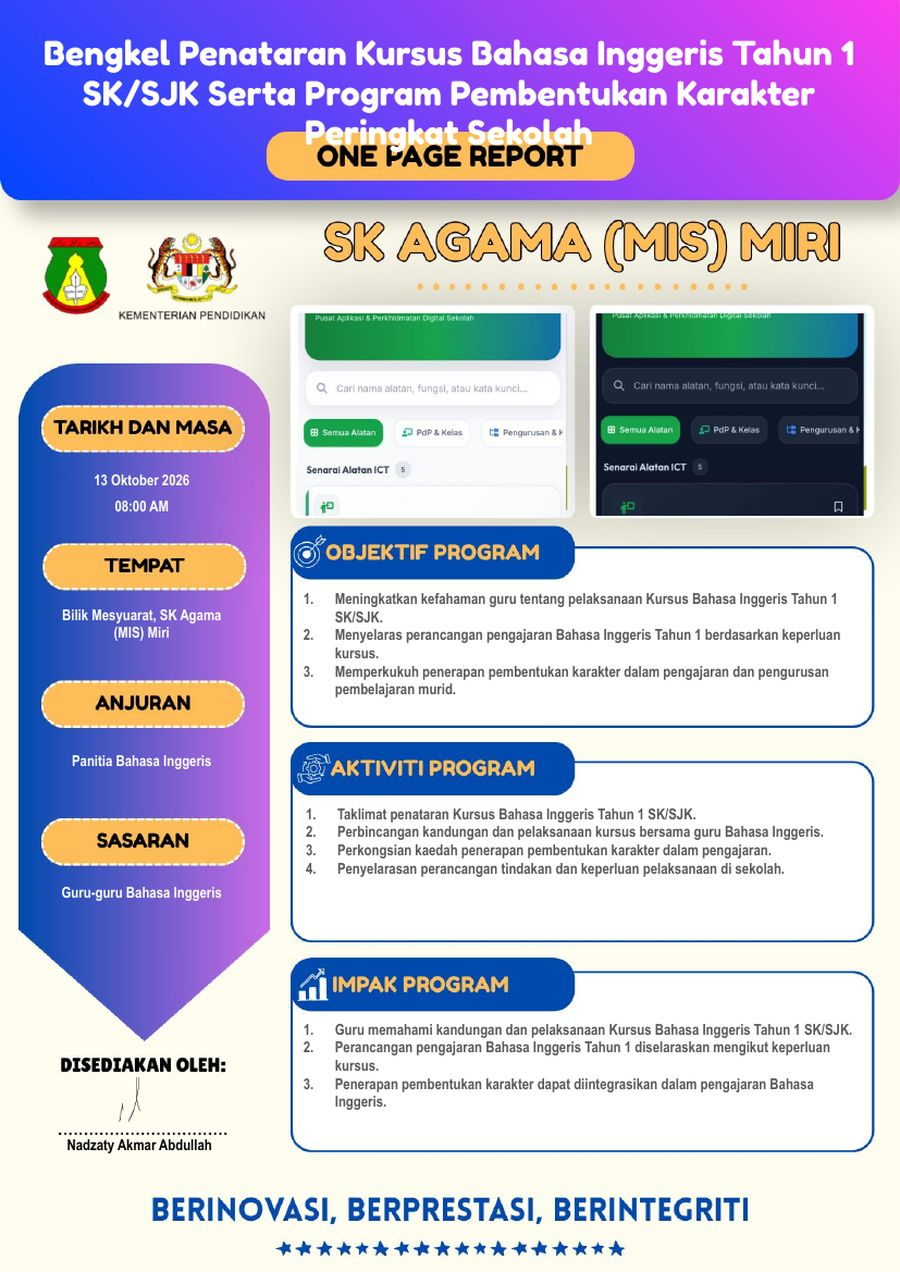
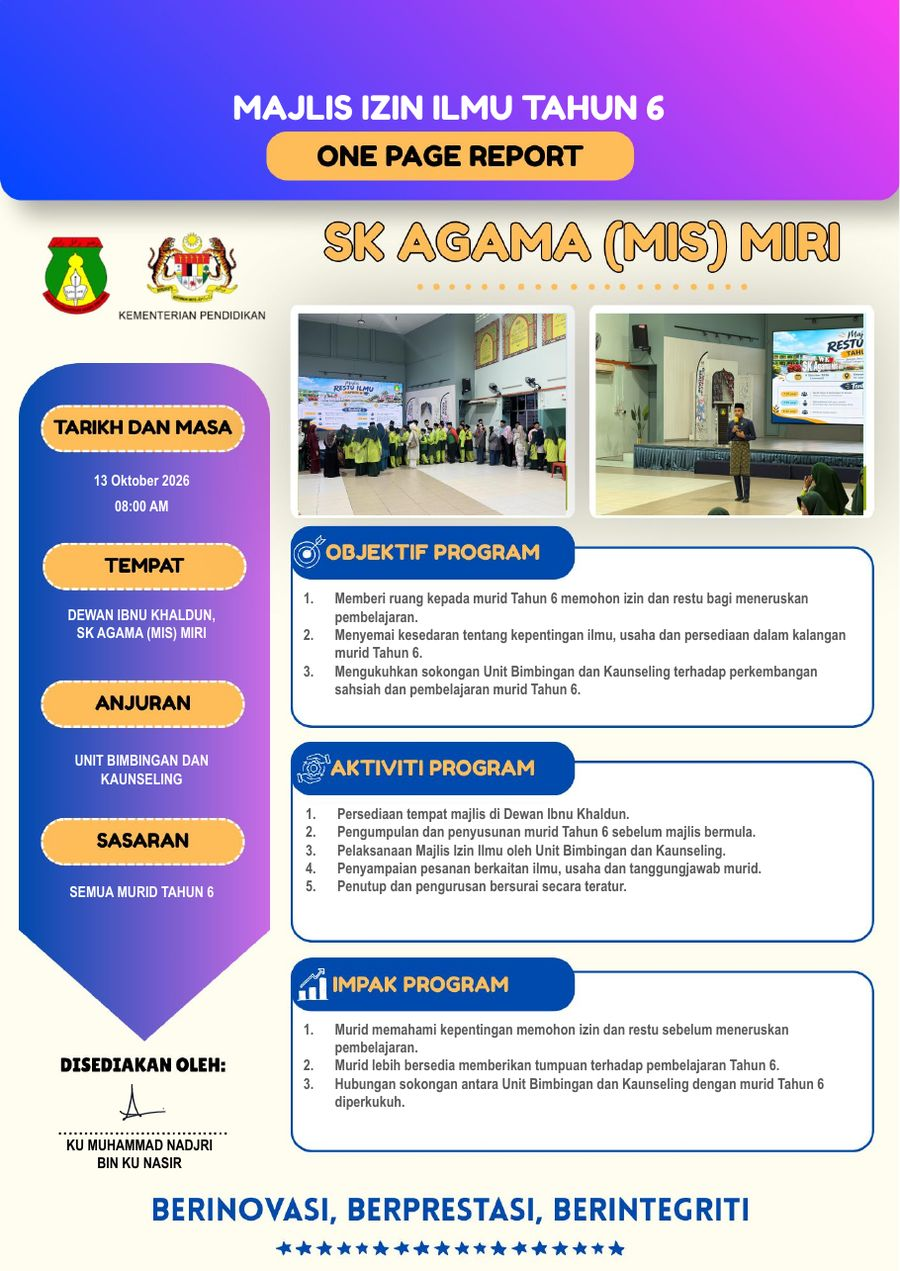
OPR: templat Hijau Alam ialah A4; thumbnail Biru dikemas kini
Claude-Session: https://claude.ai/code/session_01WB3BTyWfao2yLByT1ooThD

diff --git a/opr.html b/opr.html
@@ -286,7 +286,7 @@ button:not(:disabled):hover{transform:translateY(-1px);box-shadow:0 5px 12px rgb
       <span class="tpl-thumb"><img src="assets/opr-templat-hijau.jpg" alt="Pratonton templat Hijau Alam" loading="lazy"></span>
       <span class="tpl-info">
         <span class="tpl-name">🟢 Hijau Alam</span>
-        <span class="tpl-desc">Saiz A2 · termasuk Cadangan Penambahbaikan</span>
+        <span class="tpl-desc">Saiz A4 · termasuk Cadangan Penambahbaikan</span>
       </span>
       <span class="tpl-check" aria-hidden="true">✓</span>
     </button>
